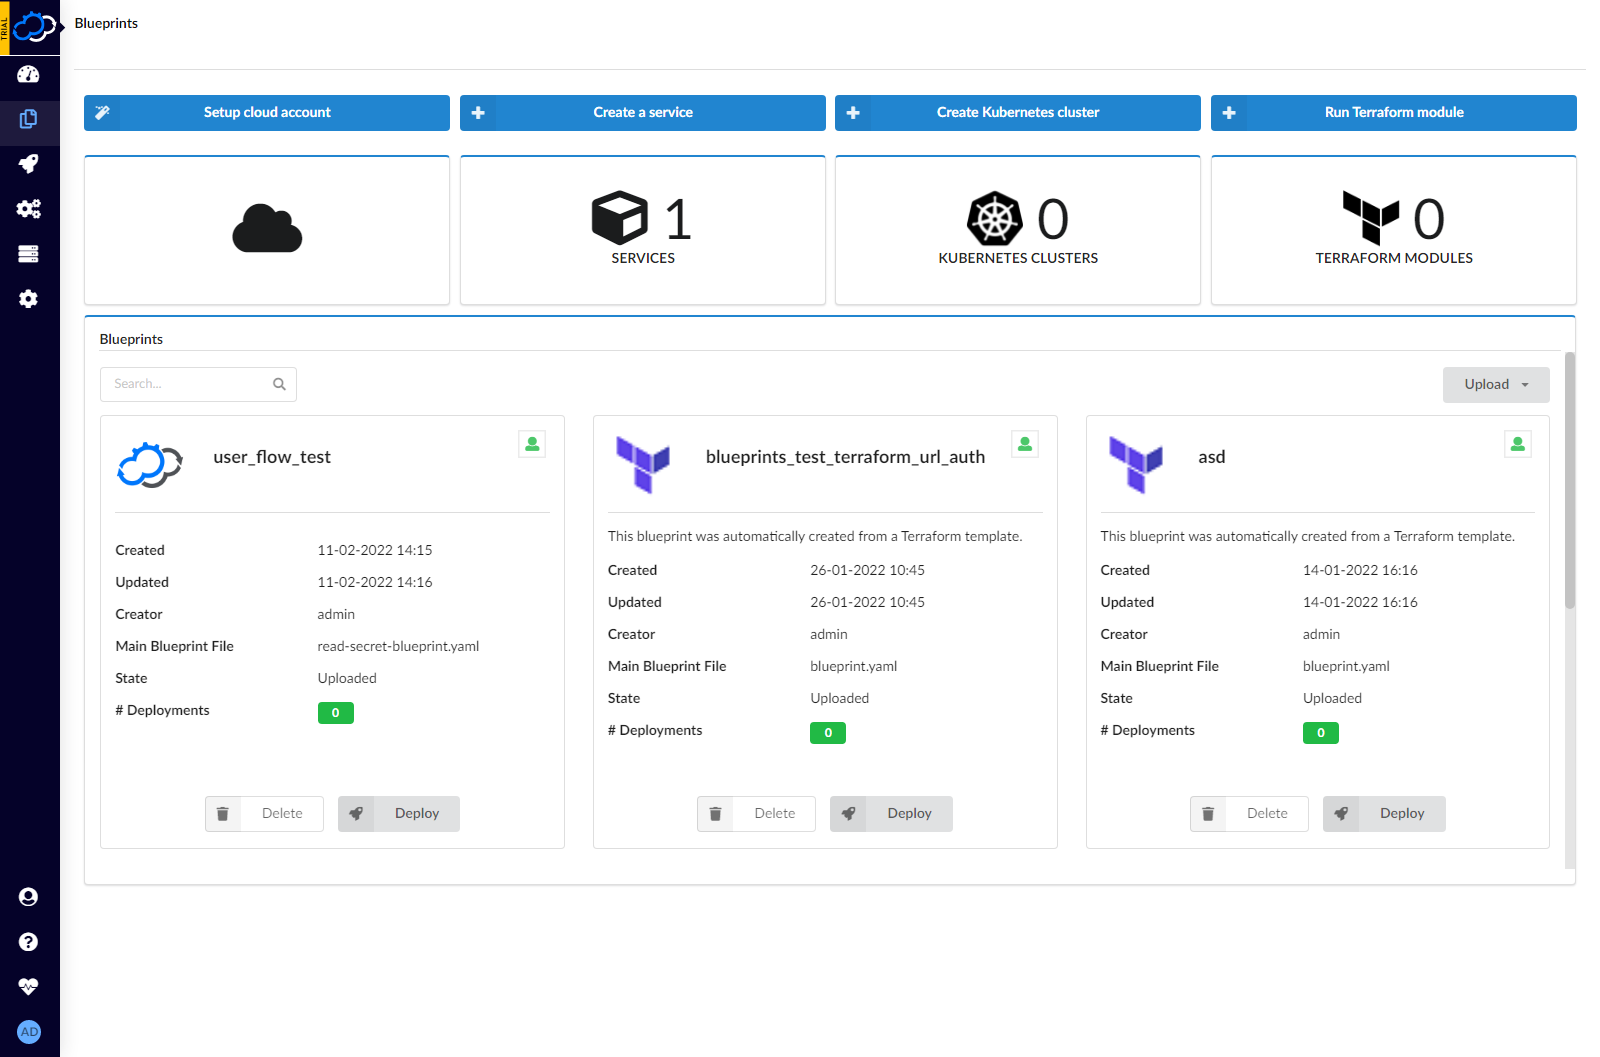
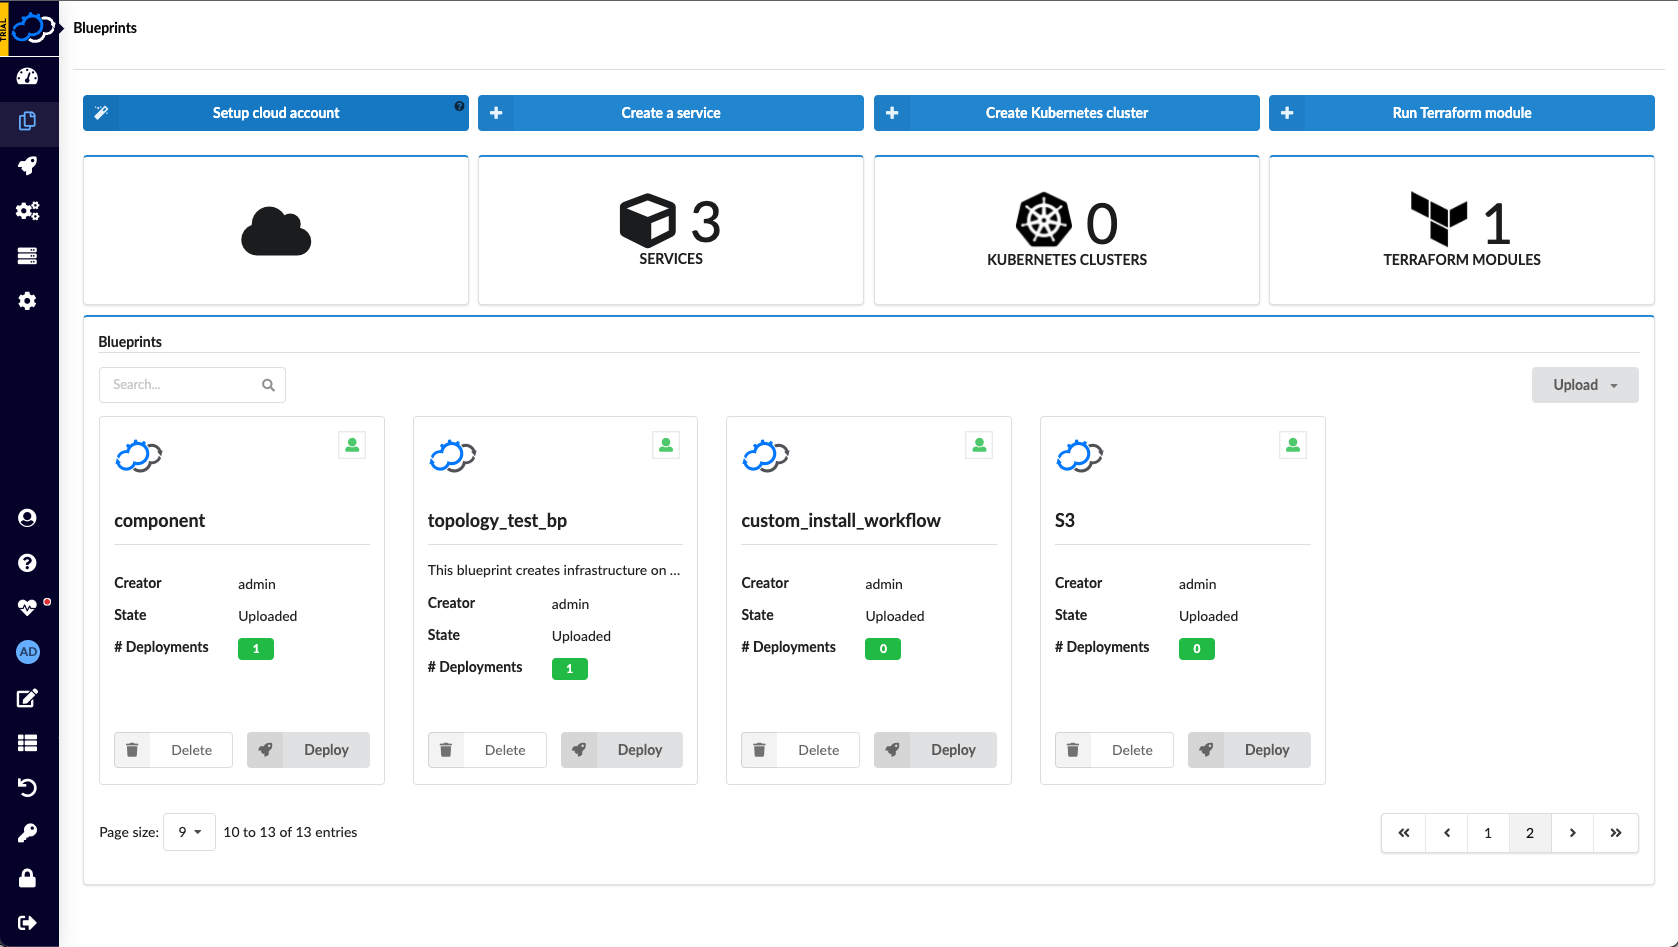
RD-4376 Update blueprint tile (#2137)
* Update blueprints.md

* Update blueprints page screenshot

* Change  description

* Compress screenshot image

* Update BlueprintsCatalog.md

* Update blueprints.md

* Update blueprintCatalog.md

diff --git a/content/working_with/console/widgets/blueprints.md b/content/working_with/console/widgets/blueprints.md
@@ -129,6 +129,7 @@ See Settings section for details on how to turn on/off this feature.
 ## Settings
 
 * `Refresh time interval` - The time interval in which the widget’s data will be refreshed, in seconds. Default: 10 seconds
+* `List of fields to show` - The fields that are presented in the blueprints list. Default: Created, Updated, Creator, State, Deployments.
 * `Enable click to drill down` - Enables redirecting to the blueprint’s drill-down page upon clicking on a specific blueprint. Default: Yes
 * `Display style` - Defines how the blueprints list should be displayed. Can be either Catalog or Table. Default: Table
 * `Hide failed blueprints` - Allows to hide blueprints not uploaded successfully. Default: Off

diff --git a/content/working_with/console/widgets/blueprintCatalog.md b/content/working_with/console/widgets/blueprintCatalog.md
@@ -25,6 +25,7 @@ These parameters are a must if you want to configure the widget to access privat
 ## Settings
 
 * `Blueprint Examples URL` - Specifies the JSON file from which the blueprints are being read
+* `List of fields to show` - The fields that are presented in the blueprints list. Default: Name, Description, Created, Updated.
 * `GitHub User` - GitHub user or organization account name which is the owner of the repository to fetch. Default: cloudify-examples
 * `GitHub Filter` - Optional filter for GitHub repositories. See GitHub’s web page ‘Searching repositories’ for more details.
 * `Display style` - defines whether the widget’s view is Catalog or Table. Default: Catalog
